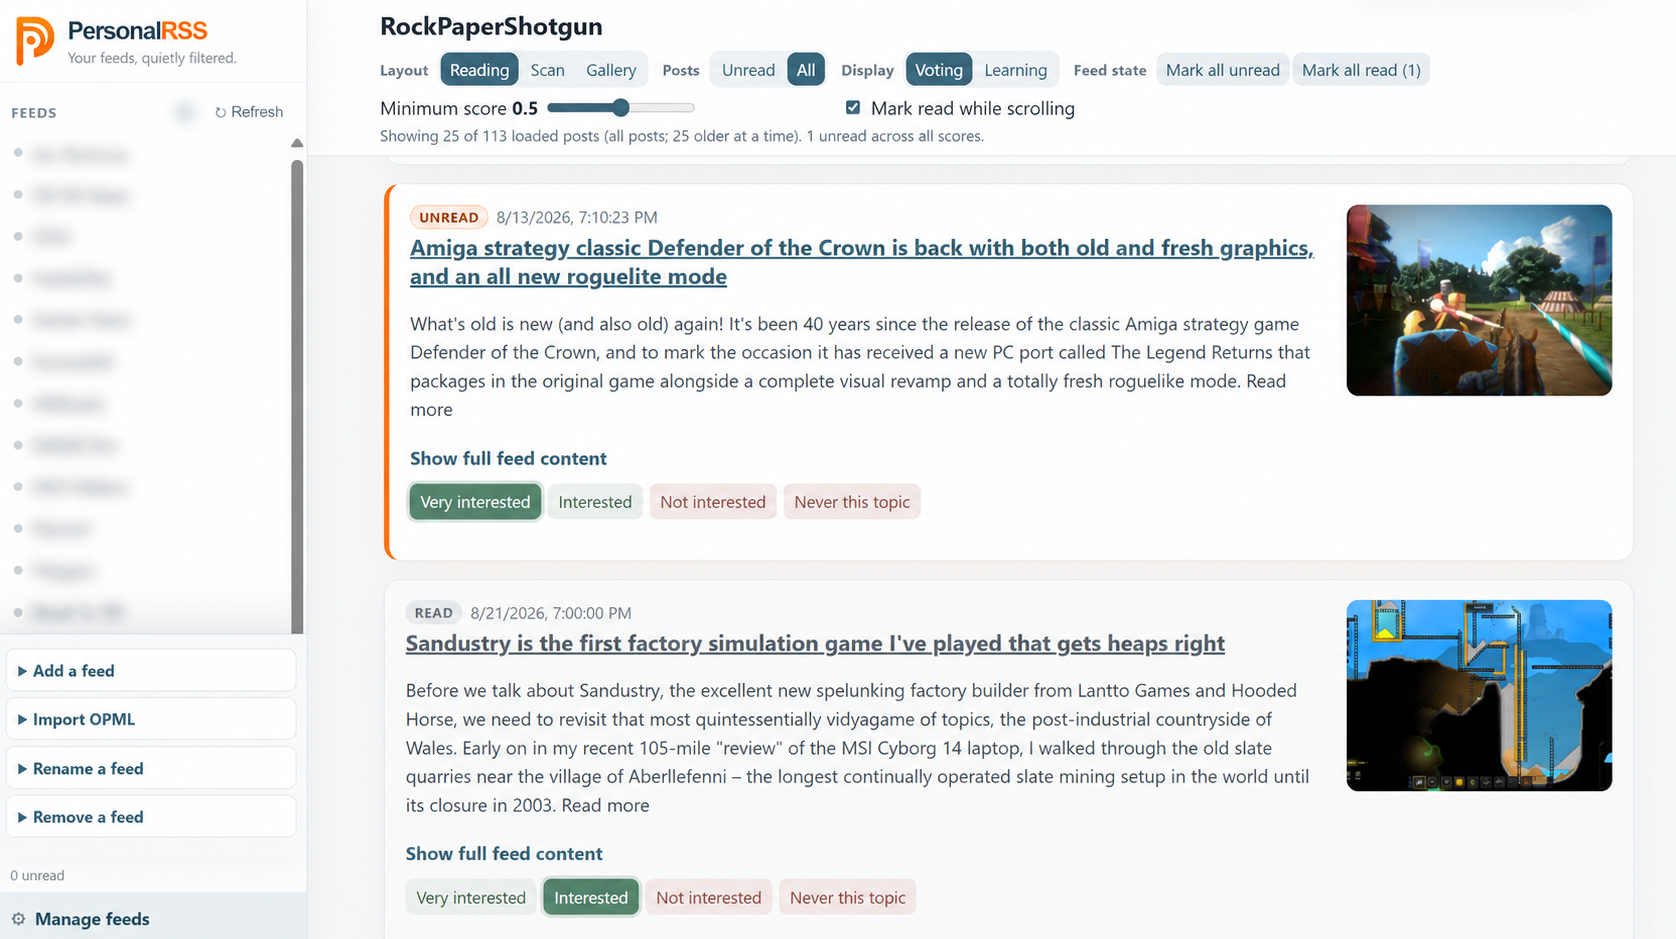
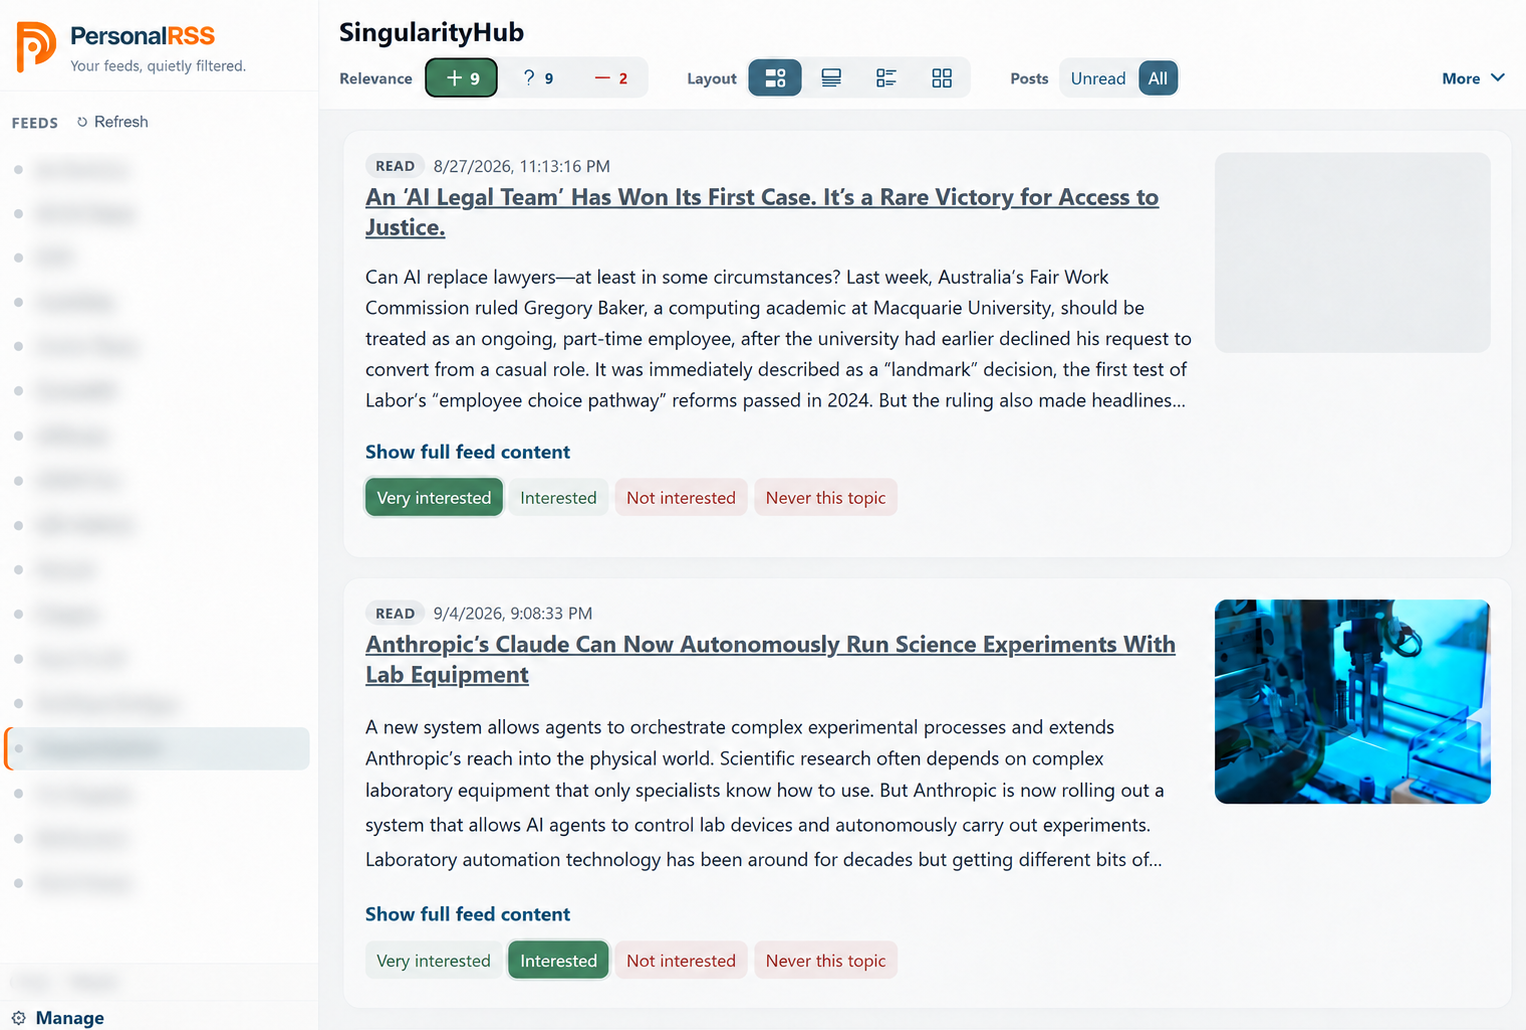
Update README screenshot and controls guide

diff --git a/README.md b/README.md
@@ -41,13 +41,13 @@ dotnet restore
 dotnet run --project src/PersonalRSS.Web
 ```
 
-Open the address printed by ASP.NET Core. Add one source manually or upload an OPML subscription export from **Manage**, then select a feed name to start reading. The dashboard refreshes sources automatically without clearing unread state. Under **Read status**, use **Mark all unread** or **Mark all read** for the cards currently shown by the relevance and Posts controls, and manage names, removal, and explicit avoided topics from **Manage**. SQLite data is stored in `data/personalrss.db` relative to the web application's content directory.
+Open the address printed by ASP.NET Core. Add one source manually or upload an OPML subscription export from **Manage**, then select a feed name to start reading. The dashboard refreshes sources automatically without clearing unread state. Open **More**, then use **Read status** to mark the cards currently shown by the Relevance and Posts controls unread or read; manage names, removal, and explicit avoided topics from **Manage**. SQLite data is stored in `data/personalrss.db` relative to the web application's content directory.
 
 The preview defaults to **High** and **Unread**. **Maybe** is the safety and learning queue, while **Filtered** remains available for inspection and correction rather than deleting or consuming anything. **All** adds 25 older read posts at a time, with **Load 25 older read posts** for further history. A fresh page load orders unread posts first and sorts each read-state group by relevance and publication date; button presses never reshuffle the current page. Each card's **Unread/Read** control persists an individual override. Manually setting a post unread protects it from scroll-based automatic reading until the user explicitly marks it read, votes on it, or uses **Mark all read**. The paired Read status actions affect only rendered cards, so other relevance views and unloaded older history are not changed. Posts automatically or manually marked read remain in place for the current page session so reading never makes the list jump.
 
-The layout selector keeps the original **Reading** cards, adds an **Expanded** view that opens every visible post's stored feed content without summary/collapse controls, and provides two faster image-and-title browsing modes. **Scan** uses a large image on the left with the title on the right, while **Gallery** arranges image-led tiles across the available width. All layouts retain voting and the read-state control; Reading, Scan, and Gallery also keep **Show full feed content** for opening individual posts. The **Display** controls can hide voting or reveal the normally hidden **Learning** details—classification, automatic relevance, confidence, positive and negative evidence, directional agreement, contributing rated-story count, and explanations. Layout and display choices are remembered by the browser, and all four layouts collapse cleanly to a single column on narrow screens.
+The layout selector keeps the original **Reading** cards, adds an **Expanded** view that opens every visible post's stored feed content without summary/collapse controls, and provides two faster image-and-title browsing modes. **Scan** uses a large image on the left with the title on the right, while **Gallery** arranges image-led tiles across the available width. All layouts retain voting and the read-state control; Reading, Scan, and Gallery also keep **Show full feed content** for opening individual posts. The expandable **More** row keeps infrequently used controls out of the way: **Display** can hide voting or reveal the normally hidden **Learning** details—classification, automatic relevance, confidence, positive and negative evidence, directional agreement, contributing rated-story count, and explanations—alongside the bulk read actions and scroll-reading preference. Layout and display choices are remembered by the browser, and all four layouts collapse cleanly to a single column on narrow screens.
 
-**Mark read while scrolling** is enabled by default and can be disabled in the feed controls; the preference is remembered by the browser. It marks an unpinned post read only after the end of its card has remained inside the reading viewport for a short interval. The final displayed post uses the bottom of the viewport as its reading boundary because no following card provides additional scrolling room. Voting is also considered deliberate consumption and marks that post read. **Show full feed content** replaces the card's summary and thumbnail in place with the sanitized text, links, images, tables, and code supplied inside the RSS item; when expanded, **Show summary** appears both above and below the full content so a long post can be collapsed from either end. Feeds that publish only an excerpt cannot expose content they did not include.
+**Mark read while scrolling** is enabled by default and can be disabled under **More**; the preference is remembered by the browser. It marks an unpinned post read only after the end of its card has remained inside the reading viewport for a short interval. The final displayed post uses the bottom of the viewport as its reading boundary because no following card provides additional scrolling room. Voting is also considered deliberate consumption and marks that post read. **Show full feed content** replaces the card's summary and thumbnail in place with the sanitized text, links, images, tables, and code supplied inside the RSS item; when expanded, **Show summary** appears both above and below the full content so a long post can be collapsed from either end. Feeds that publish only an excerpt cannot expose content they did not include.
 
 The preview's unread total deliberately counts every newly stored article across all three classifications. The source list shows separate unread High and Maybe badges, while each preview shows High, Maybe, and Filtered totals scoped to the selected Unread or All view. Four mutually exclusive feedback choices—**Very interested**, **Interested**, **Not interested**, and **Never this topic**—supply different positive or negative learning weights and immediately route the selected article to High or Filtered. **Never this topic** additionally requires the exact topic phrase to use as a persistent rule; it never guesses one from the article. Click the active choice again to undo the article vote and restore automatic classification, while managing the separate global rule under **Manage**. Learned automatic values and manual effective values are stored separately, so feedback never destroys the prediction it replaced. A rated article stays in the current list even when its classification or read state changes, preserving context and the undo control; changing a top view or display control clears that temporary exception. Generated RSS items link back to their PersonalRSS preview because external readers cannot host interactive voting controls.
 
